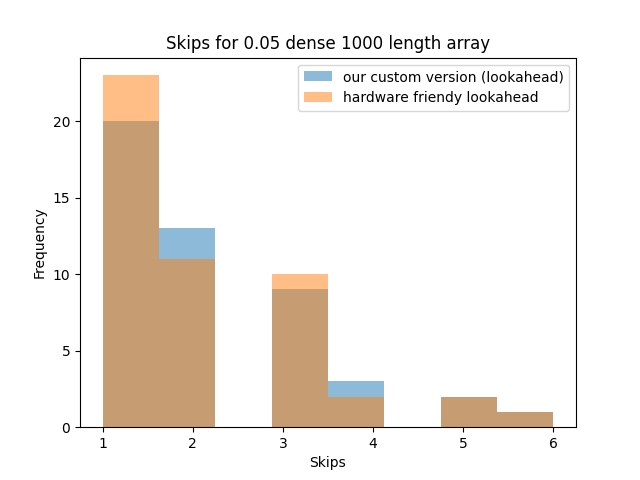
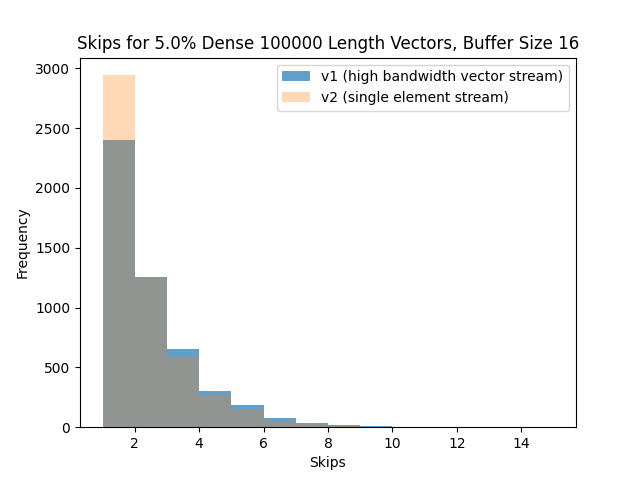
update

diff --git a/plot.py b/plot.py
@@ -9,18 +9,25 @@ class Trial:
         self.vals.append(val)
     def mean(self):
         return sum(self.vals) / len(self.vals)
-    def std(self):
-        return numpy.std(self.vals)
+    def relative_speedup(self, baseline):
+        return baseline.mean() / self.mean()
+    def std(self, baseline):
+        scaled_vals = []
+        for val in self.vals:
+            scaled_vals.append(baseline.mean() / val)
+        return numpy.std(scaled_vals)
+
+styles = ['solid', 'dashed', 'dotted', 'dashdot']
 
 trials = 10
 # Plot 1. N = T. 2 streams of the same length, but increasing density.
-densities = [0.01, 0.05, 0.1, 0.2, 0.3, 0.4, 0.5]
+densities = [0.01, 0.05, 0.1, 0.15, 0.2, 0.25, 0.3]
 results=[[],[],[],[]]
-buf=10
+buf=16
 for d in densities:
     for i in range(4):
         results[i].append(Trial())
-l = 1000
+l = 2000
 for trial in range(trials):
     for idx, d in enumerate(densities):
         temp = test_matmul(d, d, 1, l, 1, buf, buf, buf)
@@ -28,11 +35,14 @@ for trial in range(trials):
         assert(len(temp)   == 4)
         for i in range(4):
             results[i][idx].add(temp[i][1])
-for i in range(4):
-    plt.errorbar(densities, list(map(lambda x : x.mean(), results[i])), list(map(lambda x: x.std(), results[i])), label=collider_names[i], capsize=3)
-plt.xlabel('Density')
-plt.ylabel('Cycles')
-plt.title(f'Density vs Cycles for a {l} length array, buffer size {buf}')
+
+
+baseline = results[0]
+for i in range(1,4):
+    plt.errorbar(list(map(lambda x:x*100, densities)), list(map(lambda x : x[0].relative_speedup(x[1]), zip(results[i], baseline))), list(map(lambda x: x[0].std(x[1]), zip(results[i], baseline))), label=collider_names[i], capsize=3, linestyle=styles[i-1])
+plt.xlabel('Density (as %)')
+plt.ylabel('Relative Speedup')
+plt.title(f'Relative Speedup vs Density for a {l} Length Vectors (Buffer Size {buf})')
 # Show labels
 plt.legend()
 plt.savefig('plt1.png')
@@ -42,10 +52,10 @@ plt.clf()
 
 
 # Plot 2. N = T. 2 streams of the same sparsity, but increasing length.
-lengths = [100, 200, 300, 400, 500, 600, 700]
+lengths = [125, 250, 500, 1000, 1500, 2000]
 results=[[], [], [], []]
 density = 0.05
-buf = 10
+buf = 16
 for l in lengths:
     for i in range(4):
         results[i].append(Trial())
@@ -57,11 +67,14 @@ for trial in range(trials):
         for i in range(4):
             results[i][idx].add(temp[i][1])
 
-for i in range(4):
-    plt.errorbar(lengths, list(map(lambda x : x.mean(), results[i])), list(map(lambda x: x.std(), results[i])), label=collider_names[i], capsize=5)
-plt.xlabel('Density')
-plt.ylabel('Cycles')
-plt.title(f'Array length vs Cycles for a {density} dense {l} length array, buffer size {buf}')
+# for i in range(1):
+    # plt.errorbar(lengths, list(map(lambda x : x.mean(), results[i])), list(map(lambda x: x.std(), results[i])), label=collider_names[i] + ' (no buffer)', capsize=3)
+baseline = results[0]
+for i in range(1,4):
+    plt.errorbar(lengths, list(map(lambda x : x[0].relative_speedup(x[1]), zip(results[i], baseline))), list(map(lambda x: x[0].std(x[1]), zip(results[i], baseline))), label=collider_names[i], capsize=5, linestyle=styles[i-1])
+plt.xlabel('Vector Length')
+plt.ylabel('Relative Speedup')
+plt.title(f'Relative Speedup vs Vector Length for {density*100}% Dense Vectors (Buffer Size {buf})')
 # Show labels
 plt.legend()
 plt.savefig('plt2.png')
@@ -83,11 +96,12 @@ for trial in range(trials):
         for i in range(4):
             results[i][idx].add(temp[i][1])
 
+baseline = results[0]
 for i in range(1,4):
-    plt.errorbar(Ts, list(map(lambda x : x.mean(), results[i])), list(map(lambda x: x.std(), results[i])), label=collider_names[i], capsize=5)
+    plt.errorbar(Ts, list(map(lambda x : x[0].relative_speedup(x[1]), zip(results[i], baseline))), list(map(lambda x: x[0].std(x[1]), zip(results[i], baseline))), label=collider_names[i], capsize=5, linestyle=styles[i-1])
 plt.xlabel('Buffer size')
-plt.ylabel('Cycles')
-plt.title(f'Buffer size vs Cycles for a {density} dense {length} length array')
+plt.ylabel('Relative Speedup')
+plt.title(f'Buffer Size vs Relative Speedup for {density*100}% Dense {length} Length Vectors')
 # Show labels
 plt.legend()
 plt.savefig('plt3.png')
@@ -130,14 +144,17 @@ plt.clf()
 
 # Plot a histogram of the results
 density = 0.05
-length = 1000
-buf = 10
+length = 100000
+buf = 16
 results = test_skips(density, density, 1, length, 1, buf, buf, buf)
-for result in results:
-    plt.hist(result[1], bins=8, label=collider_names[result[0]], alpha=0.5)
+for idx, result in enumerate(results):
+    if idx == 0:
+        plt.hist(result[1], bins=range(1, buf), label=collider_names[result[0]], alpha=0.7)
+    if idx == 1:
+        plt.hist(result[1], bins=range(1, buf), label=collider_names[result[0]], alpha=0.3)
 plt.xlabel('Skips')
 plt.ylabel('Frequency')
-plt.title(f'Skips for {density} dense {length} length array')
+plt.title(f'Skips for {density*100}% Dense {length} Length Vectors, Buffer Size {buf}')
 plt.legend()
 plt.savefig('plt4.png')
 

diff --git a/test.py b/test.py
@@ -376,7 +376,6 @@ class Custom_collider_assoc_lookahead():
 
 # The idea is we can maybe buffer each thing. Hash it and shove it into buckets. Then look within that bucket.
 # Currently we can only look at one thing per cycle.
-# And then just fucking run it down like a retard
 
 def genList(length, density):
     uncompressed = [0] * length
@@ -392,7 +391,7 @@ COLLIDER = 0
 SKIP = 1
 LOOKAHEAD = 2
 ASSOC = 3
-collider_names = {COLLIDER : 'classic', SKIP : 'extensor (with skip optimizations)', LOOKAHEAD : 'our custom version (lookahead)', ASSOC : 'hardware friendy lookahead'}
+collider_names = {COLLIDER : 'classic', SKIP : 'extensor (with skip optimizations)', LOOKAHEAD : 'v1 (high bandwidth vector stream)', ASSOC : 'v2 (single element stream)'}
 def test_matmul(densityA, densityB, M, K, N):
     print("Simulating a matmul with parameters densityA", densityA, "densityB", densityB, "A =", [M, K], "B =", [K, N])
     print("Algorithmic ops: ", M*K*N)
